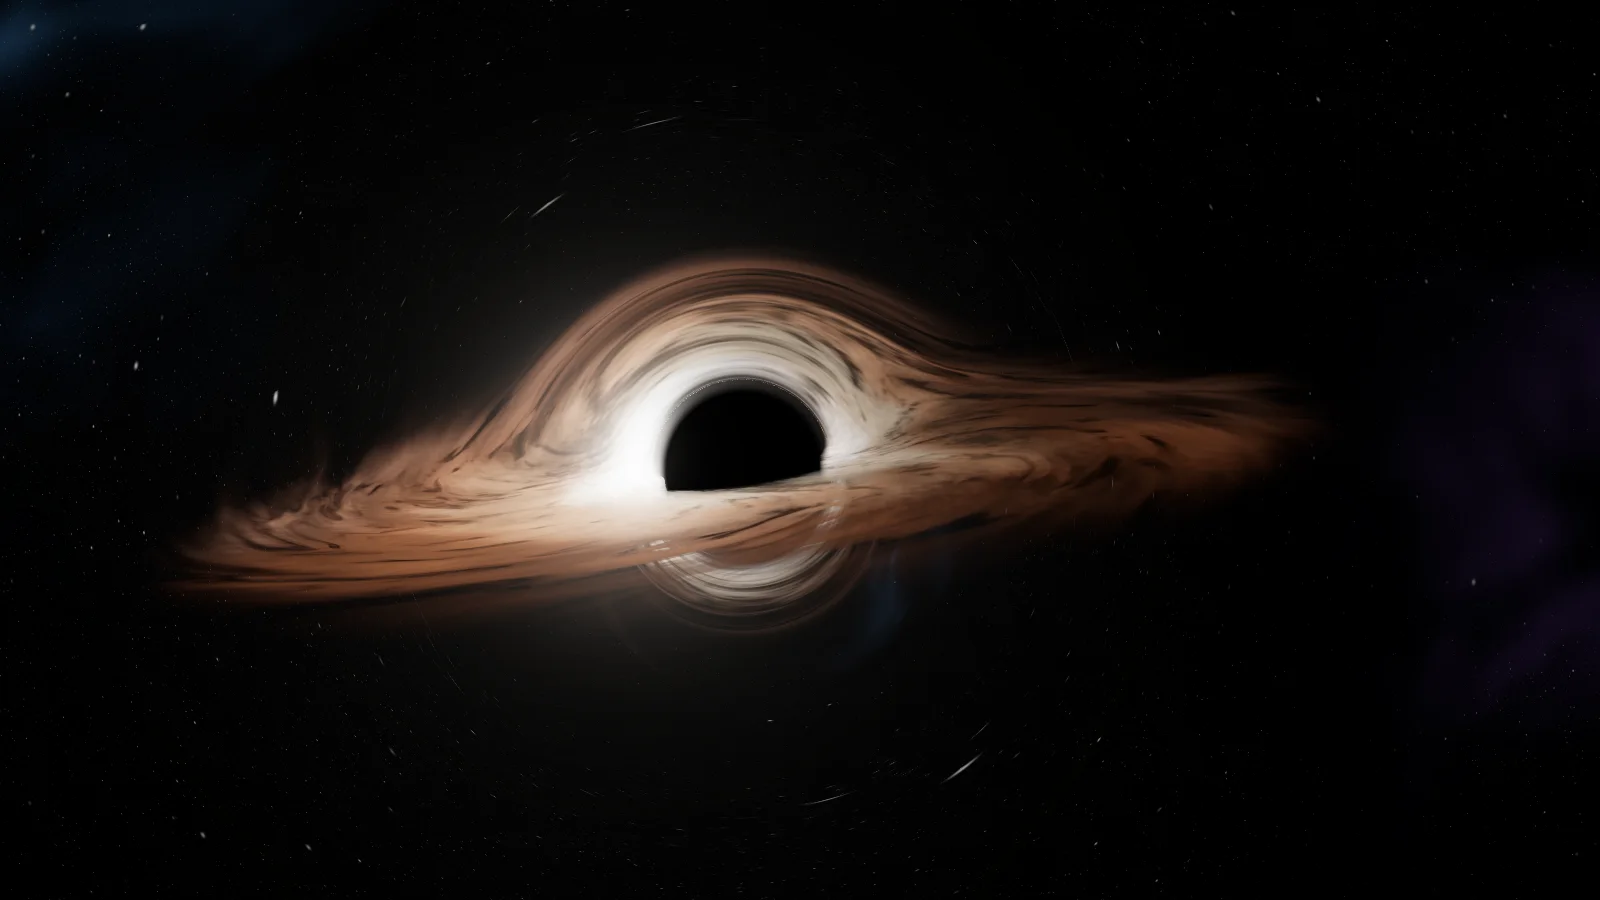
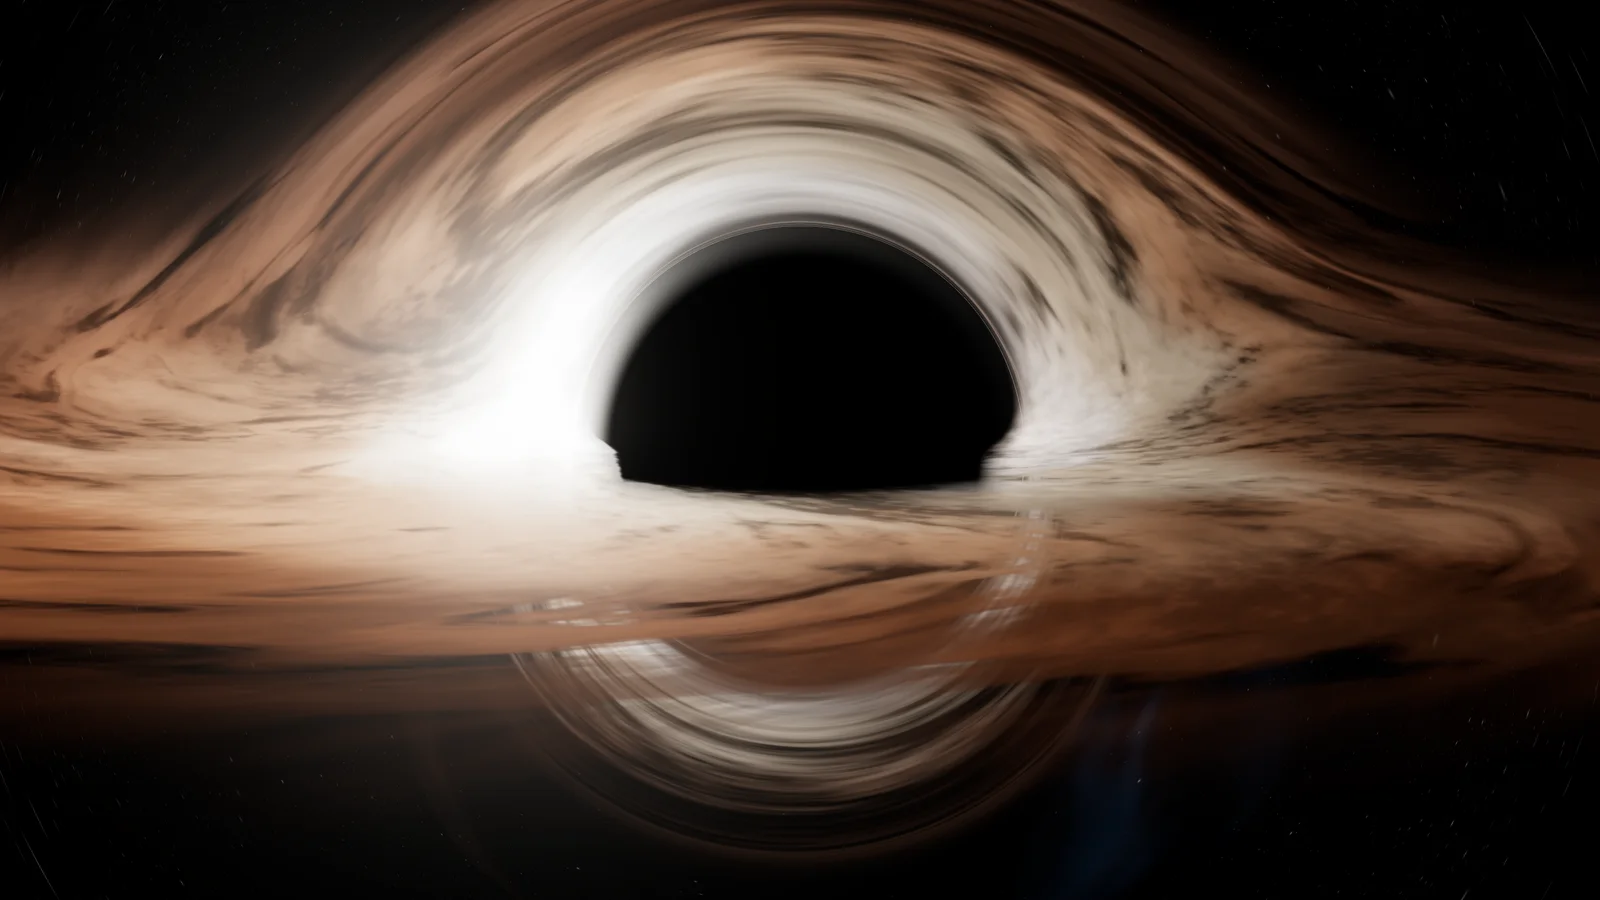
Show Gargantua up close as the simulator page's image
Google Images already credits the simulator page, so its specimen image
becomes the 4K close-up under the same URLs; the other five specimens
keep their Observe view.

diff --git a/lib/observatory-images.ts b/lib/observatory-images.ts
@@ -12,6 +12,8 @@ import type { WorldId } from "@/content/worlds.data";
  * Tres copias por espécimen en `public/images/experimentos/observatorio/`:
  * `-1600.webp` y `-800.webp` (16:9) y `-og.jpg` (1200 × 630, recorte central).
  * Las produce `tools/prepare-specimens.mjs` a partir de las capturas.
+ * Gargantúa, desde el 10-27, es el primer plano de la vista LENTE y no la
+ * vista OBSERVAR: es la imagen que Google Imágenes atribuye a su ficha.
  */
 const SPECIMEN_IMAGES = "/images/experimentos/observatorio";
 

diff --git a/docs/registro-de-decisiones.md b/docs/registro-de-decisiones.md
@@ -41,11 +41,15 @@ medio del negro; la portada de `gargantua-wallpapers` era esa misma vista.
 - **La portada de la entrada pasa al primer plano** (cabecera, `og:image`,
   tarjeta del índice) y abre una sección «Gargantúa de cerca» antes de los
   fondos 4K. Once fondos en total.
-- **Lo que NO se tocó:** la imagen del espécimen (las seis siguen siendo la
-  vista OBSERVAR por defecto) ni la tarjeta de la portada del sitio. Si las
-  consultas muestran que la ficha del simulador es la que gana en Imágenes,
-  la palanca siguiente es darle a Gargantúa el primer plano como captura de
-  espécimen.
+- **La ficha del simulador también** (mismo día, a petición del dueño): es
+  la que Google ya enseñaba, así que `gargantua-{800,1600}.webp` y
+  `gargantua-og.jpg` de `specimenImage` pasan a ser el primer plano 4K, con
+  las MISMAS URL para no perder el sitio que ya tenía en Imágenes (caché de
+  un día: se renueva sola). Arrastra la tarjeta «en vivo» de las entradas y
+  la puerta del índice del blog. Los otros cinco siguen en la vista
+  OBSERVAR. Fuente: `../jonas-orbit-fondos/gargantua.png`
+  (`tools/prepare-specimens.mjs`).
+- **Lo que NO se tocó:** la tarjeta de la portada del sitio.
 
 ---
 
